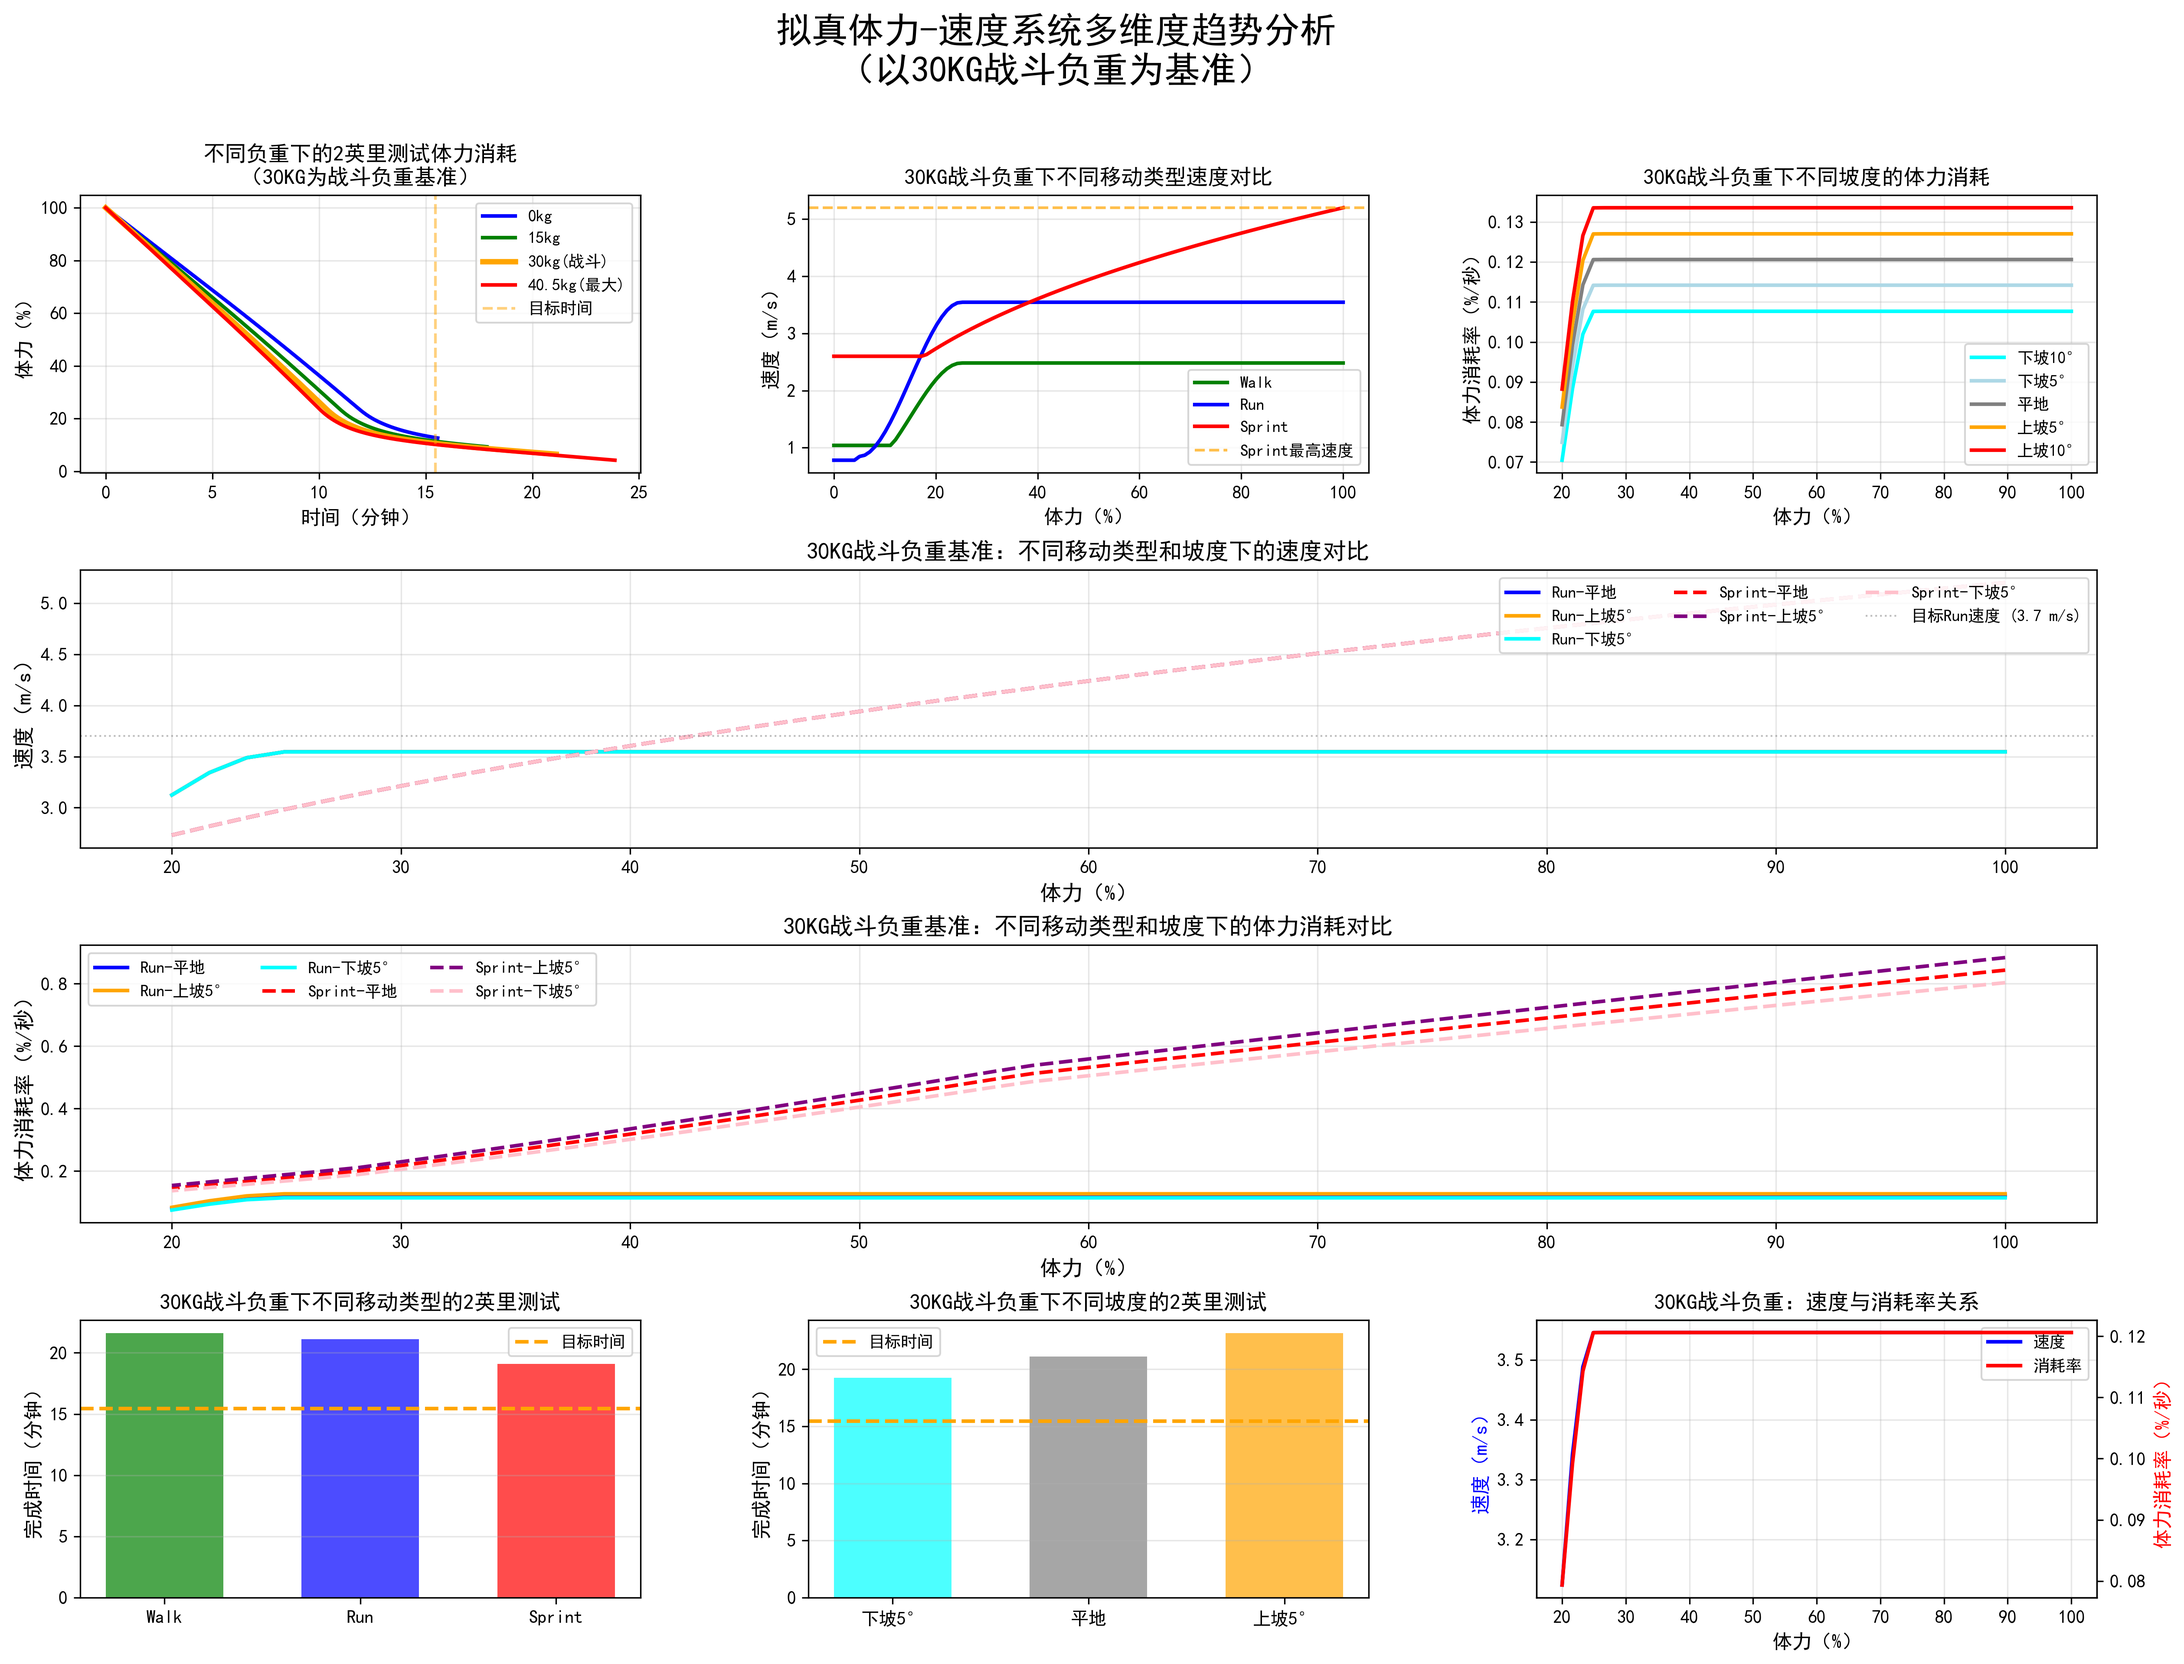
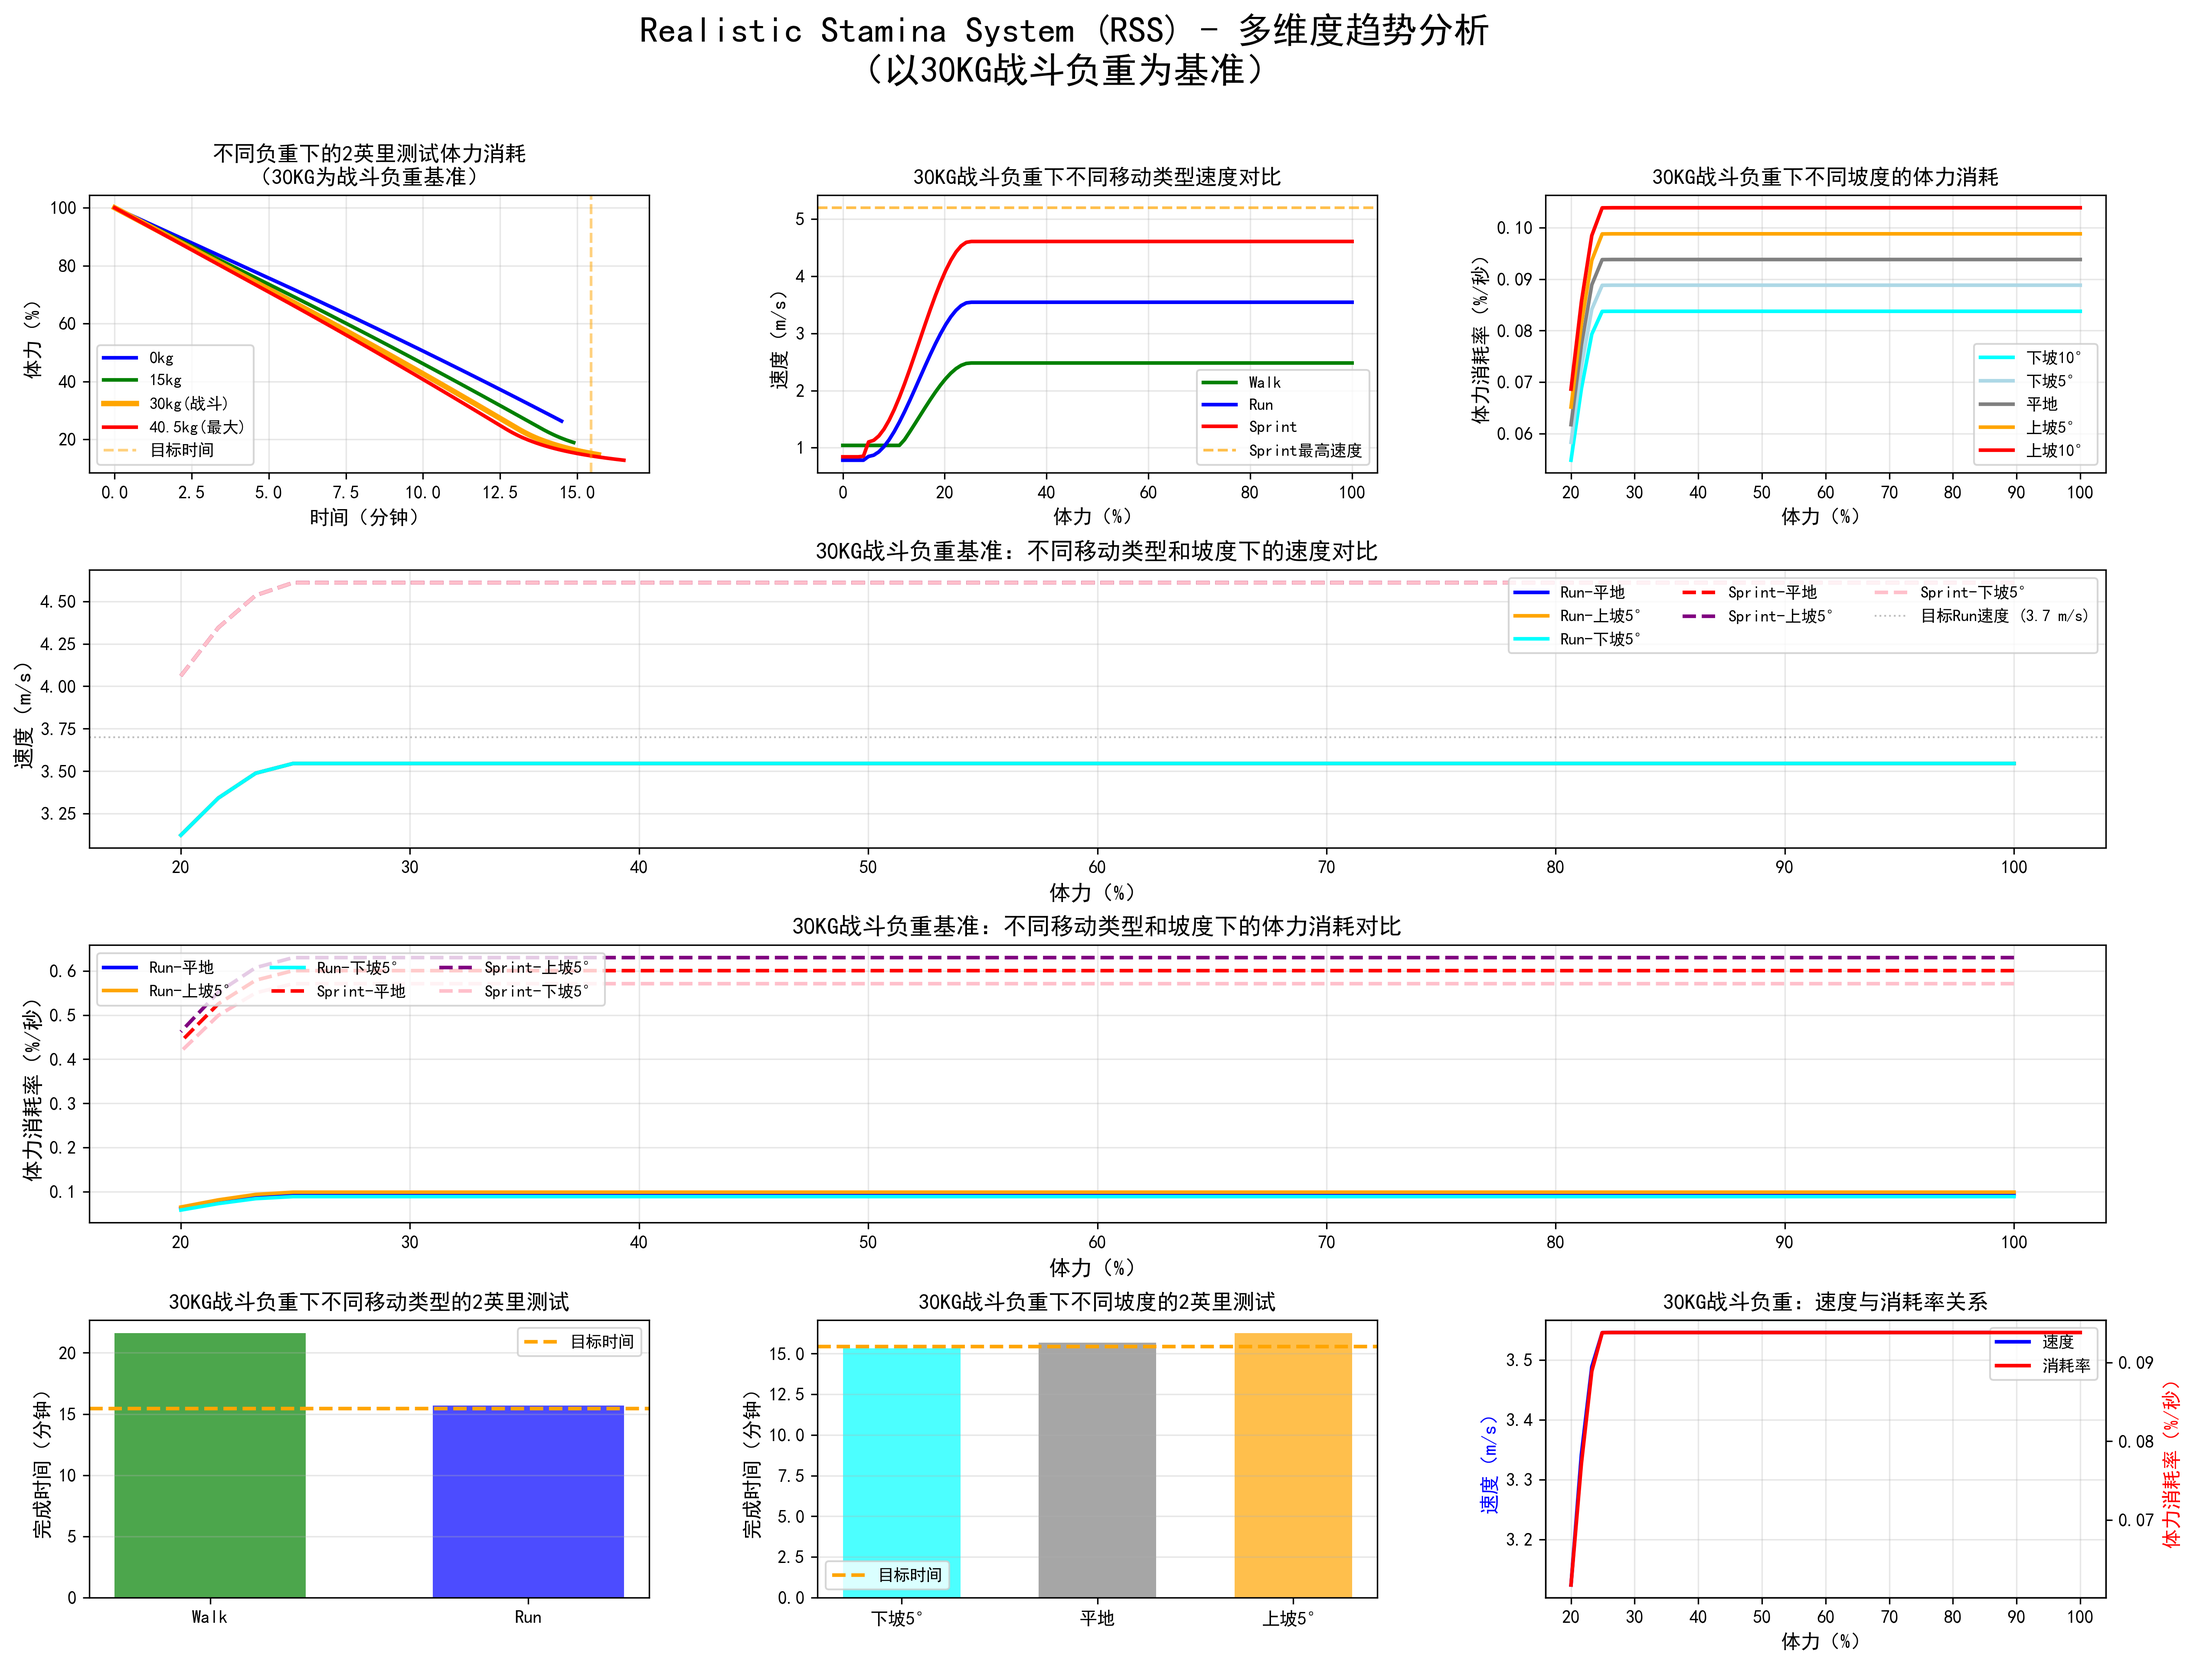
更新图像文件以反映最新的综合趋势分析和多维度分析，修改相关Python脚本以包含新的项目名称“Realistic Stamina System”，并调整参考体重以提高模型一致性。

diff --git a/tools/simulate_stamina_system.py b/tools/simulate_stamina_system.py
@@ -1,6 +1,7 @@
 #!/usr/bin/env python3
 # -*- coding: utf-8 -*-
 """
+Realistic Stamina System (RSS) - 模拟器
 拟真体力-速度系统模拟器
 基于医学模型模拟角色在最大速度下，体力和其他指标随时间的变化趋势
 """
@@ -173,7 +174,7 @@ PANDOLF_GRADE_BASE_COEFF = 0.23  # 坡度基础系数（W/kg）
 PANDOLF_GRADE_VELOCITY_COEFF = 1.34  # 坡度速度系数（W/kg）
 
 # 参考体重（用于计算相对重量倍数）
-REFERENCE_WEIGHT = 70.0  # kg
+REFERENCE_WEIGHT = 90.0  # kg（用于 Pandolf 模型的参考体重，与角色基准体重一致）
 
 # 能量到体力的转换系数
 ENERGY_TO_STAMINA_COEFF = 0.000035  # 1 W/kg ≈ 0.000035 %/s（优化后，支持16-18分钟连续运行）
@@ -724,7 +725,7 @@ def plot_trends(simulation_time=300, encumbrance_percent=0.0, movement_type='run
     fig, axes = plt.subplots(2, 2, figsize=(14, 10))
     movement_title = movement_type_names.get(movement_type, movement_type)
     slope_title = f"{slope_angle_degrees:.1f}° ({'上坡' if slope_angle_degrees > 0 else '下坡' if slope_angle_degrees < 0 else '平地'})"
-    fig.suptitle(f'拟真体力-速度系统趋势图\n（{movement_title}，坡度: {slope_title}，精确数学模型，α=0.6）', fontsize=16, fontweight='bold')
+    fig.suptitle(f'Realistic Stamina System (RSS) - 趋势图\n（{movement_title}，坡度: {slope_title}，精确数学模型，α=0.6）', fontsize=16, fontweight='bold')
     
     # 子图1：体力随时间变化
     ax1 = axes[0, 0]

diff --git a/tools/multi_dimensional_analysis.py b/tools/multi_dimensional_analysis.py
@@ -1,6 +1,7 @@
 #!/usr/bin/env python3
 # -*- coding: utf-8 -*-
 """
+Realistic Stamina System (RSS) - 多维度趋势分析脚本
 多维度趋势分析脚本
 从多个维度观测体力-速度系统现象，以30KG战斗负重为基准
 """
@@ -114,7 +115,7 @@ PANDOLF_GRADE_BASE_COEFF = 0.23  # 坡度基础系数（W/kg）
 PANDOLF_GRADE_VELOCITY_COEFF = 1.34  # 坡度速度系数（W/kg）
 
 # 参考体重（用于计算相对重量倍数）
-REFERENCE_WEIGHT = 70.0  # kg
+REFERENCE_WEIGHT = 90.0  # kg（用于 Pandolf 模型的参考体重，与角色基准体重一致）
 
 # 能量到体力的转换系数
 ENERGY_TO_STAMINA_COEFF = 0.000035  # 1 W/kg ≈ 0.000035 %/s（优化后，支持16-18分钟连续运行）
@@ -483,7 +484,7 @@ def plot_multi_dimensional_analysis():
     fig = plt.figure(figsize=(20, 14))
     gs = fig.add_gridspec(4, 3, hspace=0.35, wspace=0.3)
     
-    fig.suptitle('拟真体力-速度系统多维度趋势分析\n（以30KG战斗负重为基准）', fontsize=20, fontweight='bold')
+    fig.suptitle('Realistic Stamina System (RSS) - 多维度趋势分析\n（以30KG战斗负重为基准）', fontsize=20, fontweight='bold')
     
     # 30KG战斗负重百分比
     combat_enc_percent = COMBAT_ENCUMBRANCE_WEIGHT / MAX_ENCUMBRANCE_WEIGHT

diff --git a/tools/generate_comprehensive_trends.py b/tools/generate_comprehensive_trends.py
@@ -1,6 +1,7 @@
 #!/usr/bin/env python3
 # -*- coding: utf-8 -*-
 """
+Realistic Stamina System (RSS) - 综合趋势图生成器
 综合趋势图生成器
 包含2英里测试、不同负重情况对比、恢复速度分析等
 """
@@ -131,7 +132,7 @@ PANDOLF_GRADE_BASE_COEFF = 0.23  # 坡度基础系数（W/kg）
 PANDOLF_GRADE_VELOCITY_COEFF = 1.34  # 坡度速度系数（W/kg）
 
 # 参考体重（用于计算相对重量倍数）
-REFERENCE_WEIGHT = 70.0  # kg
+REFERENCE_WEIGHT = 90.0  # kg（用于 Pandolf 模型的参考体重，与角色基准体重一致）
 
 # 能量到体力的转换系数
 ENERGY_TO_STAMINA_COEFF = 0.000035  # 1 W/kg ≈ 0.000035 %/s（优化后，支持16-18分钟连续运行）
@@ -582,7 +583,7 @@ def plot_comprehensive_trends():
     fig = plt.figure(figsize=(16, 12))
     gs = fig.add_gridspec(3, 3, hspace=0.3, wspace=0.3)
     
-    fig.suptitle('拟真体力-速度系统综合趋势分析\n（基于医学模型）', fontsize=18, fontweight='bold')
+    fig.suptitle('Realistic Stamina System (RSS) - 综合趋势分析\n（基于医学模型）', fontsize=18, fontweight='bold')
     
     # ========== 图1: 2英里测试 ==========
     ax1 = fig.add_subplot(gs[0, 0])
